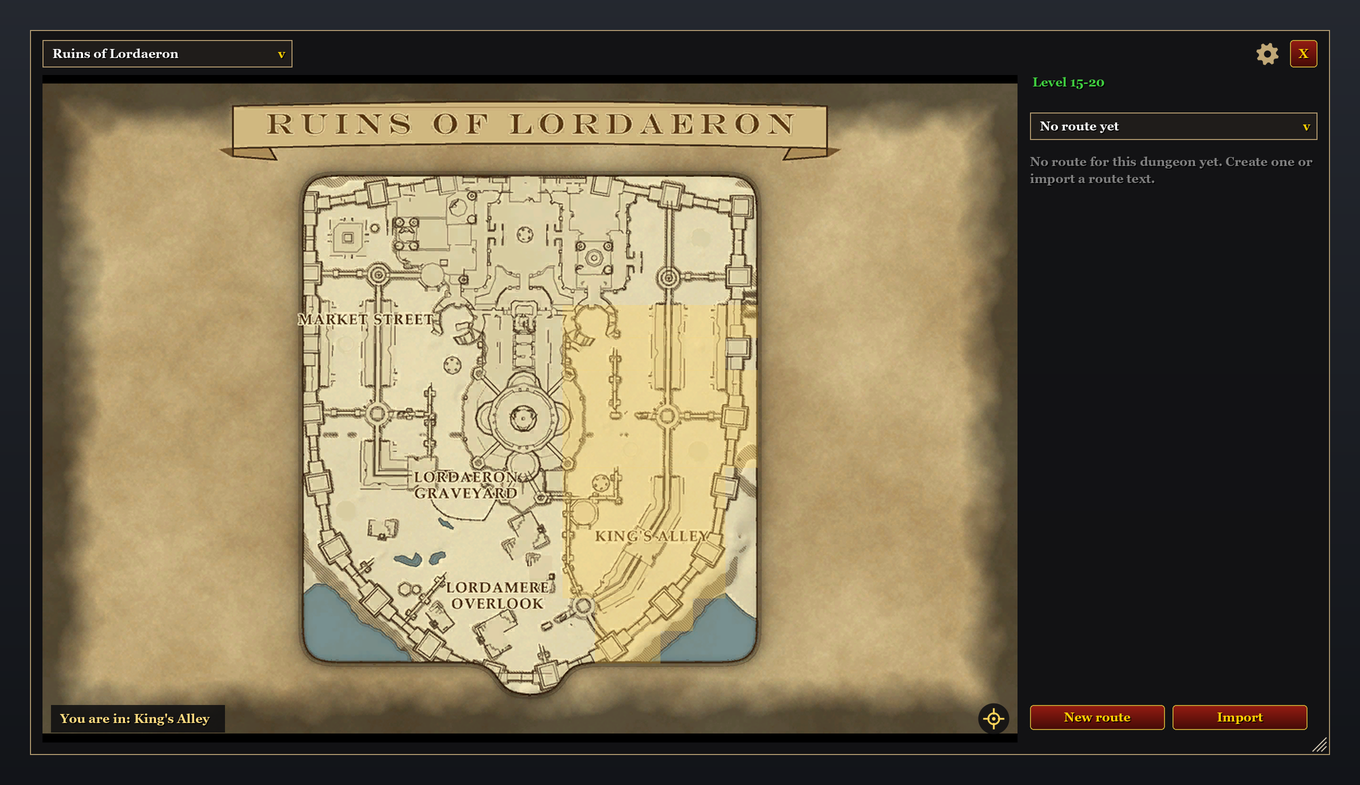
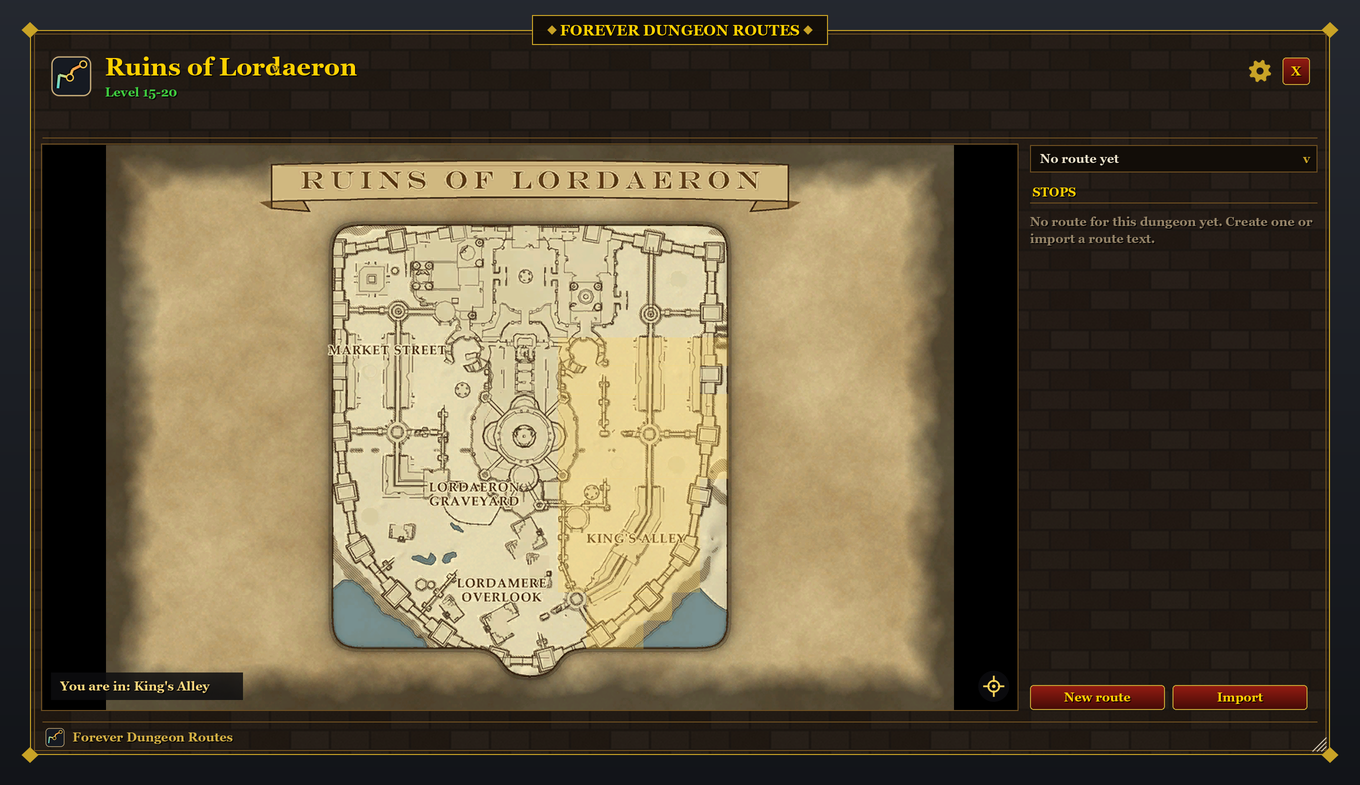
0.5.18: Gilded is the style of new installs
- Core.lua: the default window style is "gilded"; a style saved
  before stays (the defaults only fill missing settings)
- Theme.lua: Gilded first in the style menu and the fallback for an
  unknown style
- README: all preview images in the new style; the style row shows
  Dark and Parchment instead

diff --git a/README.md b/README.md
@@ -18,8 +18,8 @@ Mythic Dungeon Tools, and a route list where players put up their routes for eve
 | ![Ruins of Lordaeron, King's Alley lit up, no route yet](docs/screenshots/new-lordaeron.png) | ![The Hall of Thanes, map drawn from the building's floors](docs/screenshots/new-thanes.png) |
 | **Or from the game's own minimap pictures (gear button)** | **The Hall of Thanes from the minimap pictures** |
 | ![Ruins of Lordaeron from the game's minimap pictures, King's Alley lit up](docs/screenshots/new-lordaeron-minimap.png) | ![The Hall of Thanes from the game's minimap pictures, Anvilmar's Rest lit up](docs/screenshots/new-thanes-minimap.png) |
-| **Window style Gilded (gear button)** | **Gilded: the map levels as tabs** |
-| ![The Deadmines in the window style Gilded: brick and gold, title plate, the dungeon as title, the stops with their progress](docs/screenshots/style-gilded.png) | ![Blackrock Depths in the window style Gilded with the two map levels as tabs](docs/screenshots/style-gilded-tabs.png) |
+| **The other window styles (gear button): Dark** | **Parchment** |
+| ![The Deadmines in the window style Dark, the small display above the window](docs/screenshots/style-dark.png) | ![The Deadmines in the window style Parchment, light like the map art](docs/screenshots/style-parchment.png) |
 | **Raids with paths: Molten Core** | **Zul'Gurub, the route "Full clear"** |
 | ![Molten Core with the standard route from the entrance to Ragnaros](docs/screenshots/raid-moltencore.png) | ![Zul'Gurub with the route Full clear, optional bosses marked](docs/screenshots/raid-zulgurub.png) |
 | **The minimap pictures for every dungeon: the Deadmines** | **Blackrock Depths, The Grim Guzzler lit up** |
@@ -74,8 +74,8 @@ replace them.
   without the addon, or share routes as text (export and import).
 - Route list: players put their routes up for everyone, a click takes a route over, and good routes
   get recommended. The list comes from your guild, your parties and the server channel FDRoutes.
-- Four window styles: dark, parchment (light like the map art), classic (the game's gold frame) and
-  gilded (brick and gold, with a title plate, the map levels as tabs and a footer).
+- Four window styles: gilded (the default: brick and gold, with a title plate, the map levels as
+  tabs and a footer), dark, parchment (light like the map art) and classic (the game's gold frame).
 - Button at the minimap (right-click for a few switches), slash command and key binding.
 - English, German, French, Spanish, Portuguese, Russian, Korean and Chinese (simplified and
   traditional). Names of bosses, dungeons, map levels and rooms come from the game in the language
@@ -135,7 +135,7 @@ By hand:
 - The gear button holds the settings: stop list, arrows, map from the game's minimap, tick off
   bosses automatically, open automatically in dungeons, button at the minimap, small display
   in dungeons, route list over the server channel, line width, text size of the stop list, window
-  style (dark, parchment, classic, gilded), opacity.
+  style (gilded, dark, parchment, classic), opacity.
 
 Stratholme, Maraudon and Dire Maul North come with two standard routes each (living and undead
 side, purple and orange side, full clear and tribute run).

diff --git a/CHANGELOG.md b/CHANGELOG.md
@@ -1,5 +1,11 @@
 # Changelog
 
+## 0.5.18
+
+- New installs start in the window style "Gilded", and it comes first in the style menu. A style
+  chosen before stays; the gear button switches between all four.
+- The preview images show the new style.
+
 ## 0.5.17
 
 - New window style "Gilded" behind the gear button: dark brick walls in a gold frame with a title
